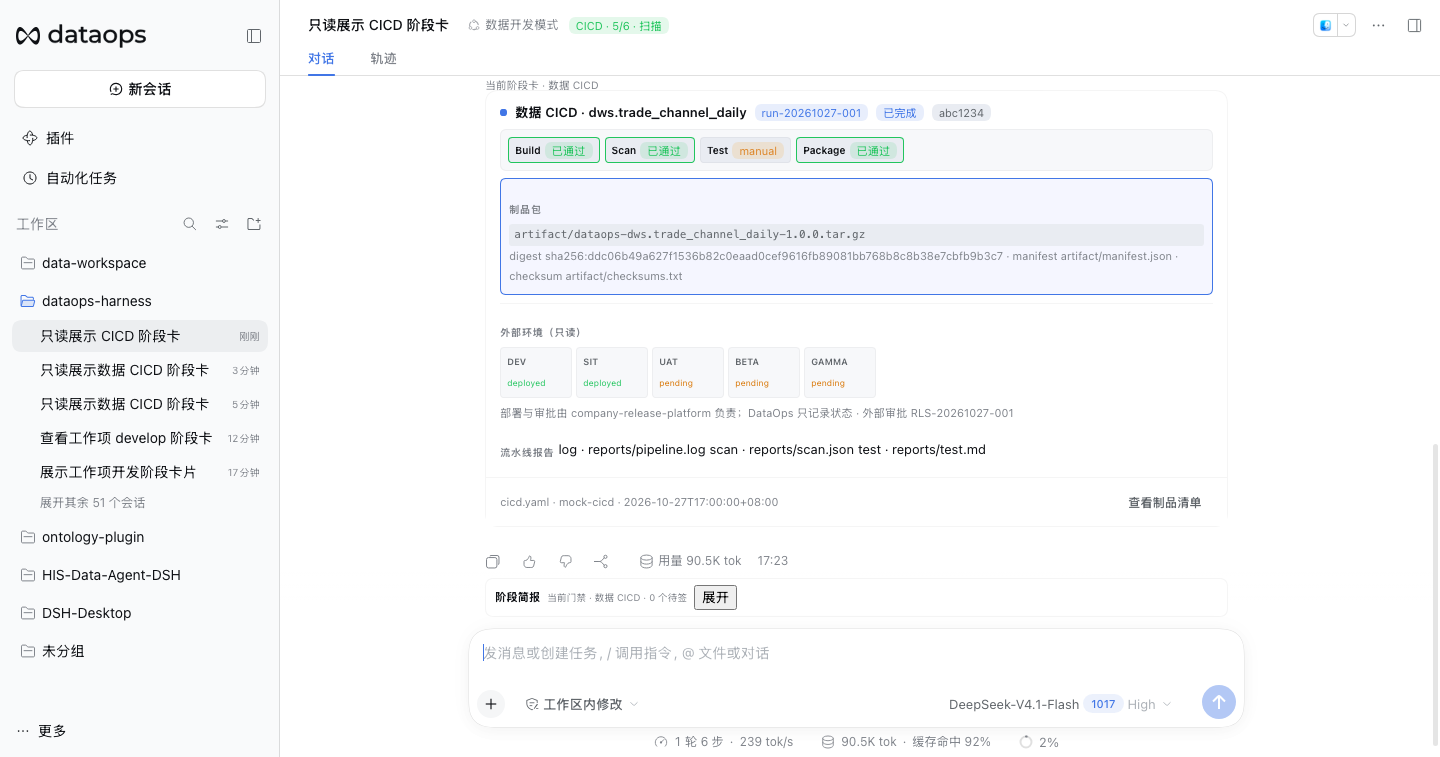
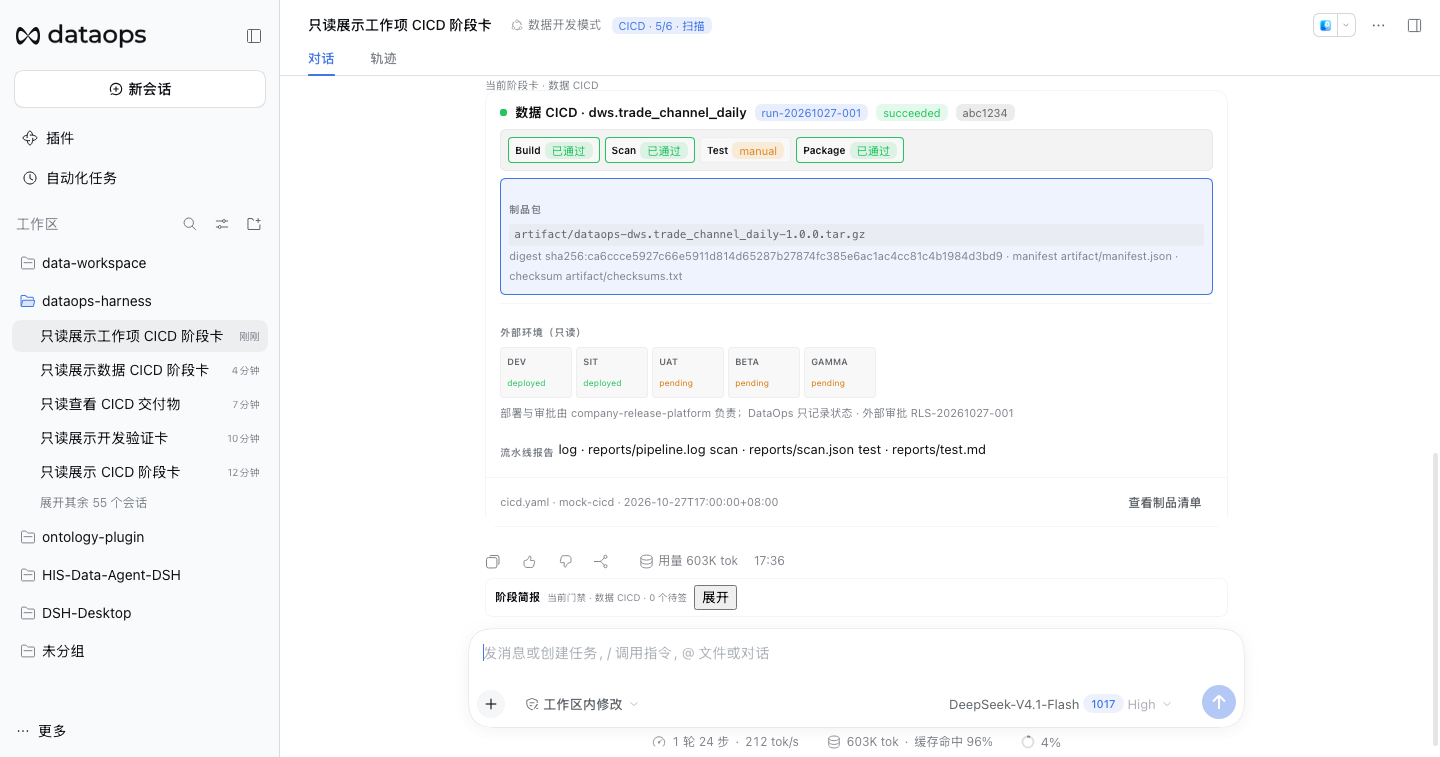
fix: render stage 5 cards across widths and dark theme

diff --git a/packages/dataops-client/src/cards.js b/packages/dataops-client/src/cards.js
@@ -254,6 +254,20 @@ export function createDataopsCards(React) {
     '.do-legend-line{display:inline-block;width:14px;height:0;border-top:1px solid var(--dsw-alias-border-l2,rgba(0,0,0,.3))}',
     '.do-legend-line[data-planned="true"]{border-top-style:dashed}',
     '.do-legend-dot{display:inline-block;width:7px;height:7px;border-radius:2px;background:var(--dsw-alias-brand-primary-bg,rgba(77,107,254,.2));border:1px solid var(--dsw-alias-brand-primary,#4d6bfe)}',
+    '.do-cicd-pipeline{background:color-mix(in srgb,var(--dsw-alias-label-primary,#0f1115) 5%,var(--dsw-alias-bg-layer-1,#fff))}',
+    '.do-cicd-step,.do-cicd-envnode{background:color-mix(in srgb,var(--dsw-alias-label-primary,#0f1115) 3%,var(--dsw-alias-bg-layer-1,#fff))}',
+    '.do-cicd-artifact{background:color-mix(in srgb,var(--dsw-alias-state-business-primary,#4176e6) 9%,var(--dsw-alias-bg-layer-1,#fff))}',
+    '.do-pill{background:color-mix(in srgb,var(--dsw-alias-label-primary,#0f1115) 8%,var(--dsw-alias-bg-layer-1,#fff))}',
+    '@media (prefers-color-scheme:dark){',
+    '  .do-cicd-step,.do-cicd-envnode{background:var(--dsw-alias-bg-layer-2,#20242c);border-color:var(--dsw-alias-border-l2,#353b47)}',
+    '  .do-cicd-artifact{background:var(--dsw-alias-brand-primary-bg,#182238);border-color:var(--dsw-alias-state-business-primary,#4d6bfe)}',
+    '  .do-signoff-host-preview,.do-map-path,.do-map-node,.do-asset,.do-gatedock{background:var(--dsw-alias-bg-layer-2,#20242c);border-color:var(--dsw-alias-border-l2,#353b47)}',
+    '  .do-pill{background:var(--dsw-alias-bg-overlay,#2a303b);color:var(--dsw-alias-label-secondary,#c7ccd6)}',
+    '  .do-pill[data-tone=brand]{background:rgba(77,107,254,.18)}',
+    '  .do-pill[data-tone=pass]{background:rgba(34,197,94,.16)}',
+    '  .do-pill[data-tone=warn]{background:rgba(245,158,11,.16)}',
+    '  .do-cicd-envname{color:var(--dsw-alias-label-secondary,#c7ccd6)}',
+    '}',
     '@media(max-width:640px){.do-grid{grid-template-columns:1fr;gap:2px}}'
   ].join('\n')
 
